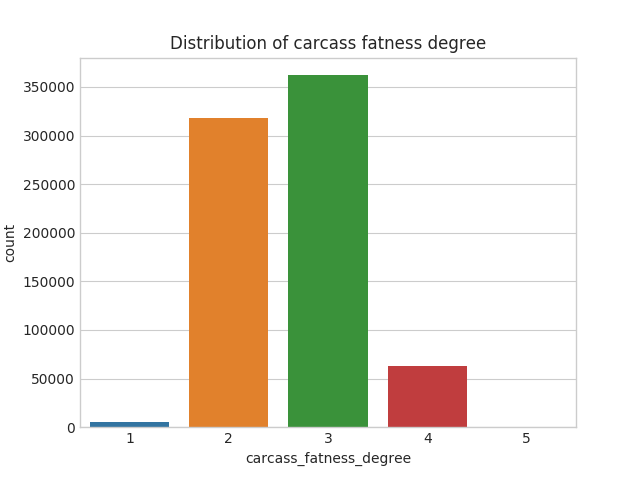
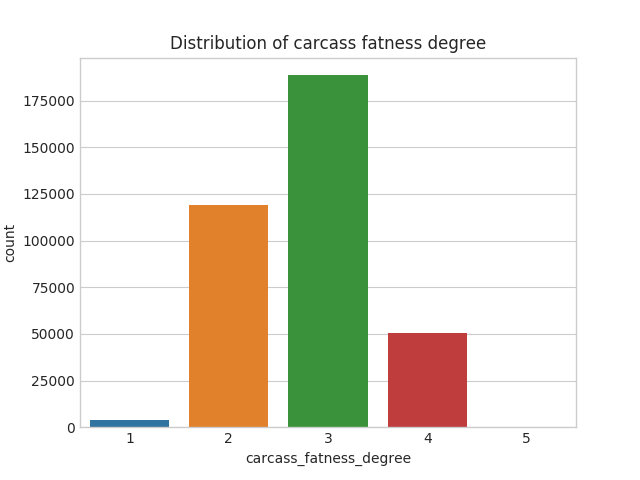
Novas figuras a partir da nova base de dados usando enn

diff --git a/dissertacao/3_visualizar_dados.py b/dissertacao/3_visualizar_dados.py
@@ -72,7 +72,7 @@ def plotar_dataset_2d_balanced():
     plt.show()
 
 
-plotar_dataset_2d_balanced()
+# plotar_dataset_2d_balanced()
 # plotar_dataset_2d_imbalanced()
 
 
@@ -131,7 +131,7 @@ def plotar_dataset_3d_balanced():
 
 
 # plotar_dataset_3d_imbalanced()
-plotar_dataset_3d_balanced()
+# plotar_dataset_3d_balanced()
 
 # ax = plt.axes()
 # sns.countplot(x='carcass_fatness_degree', data=dados_completo, ax=ax)
@@ -142,9 +142,9 @@ plotar_dataset_3d_balanced()
 ax = plt.axes()
 sns.countplot(x='carcass_fatness_degree', data=conjunto_balanceado, ax=ax)
 ax.set_title('Distribution of carcass fatness degree')
-plt.savefig('figuras/distribuicao_acabamento_balanceada_smoteenn.png')
+plt.savefig('figuras/distribuicao_acabamento_balanceada_smote.png')
 plt.show()
-
+exit()
 # dados_completo.hist(bins=50, figsize=(25, 25))
 # plt.savefig('figuras/histograma.png')
 # plt.show()
